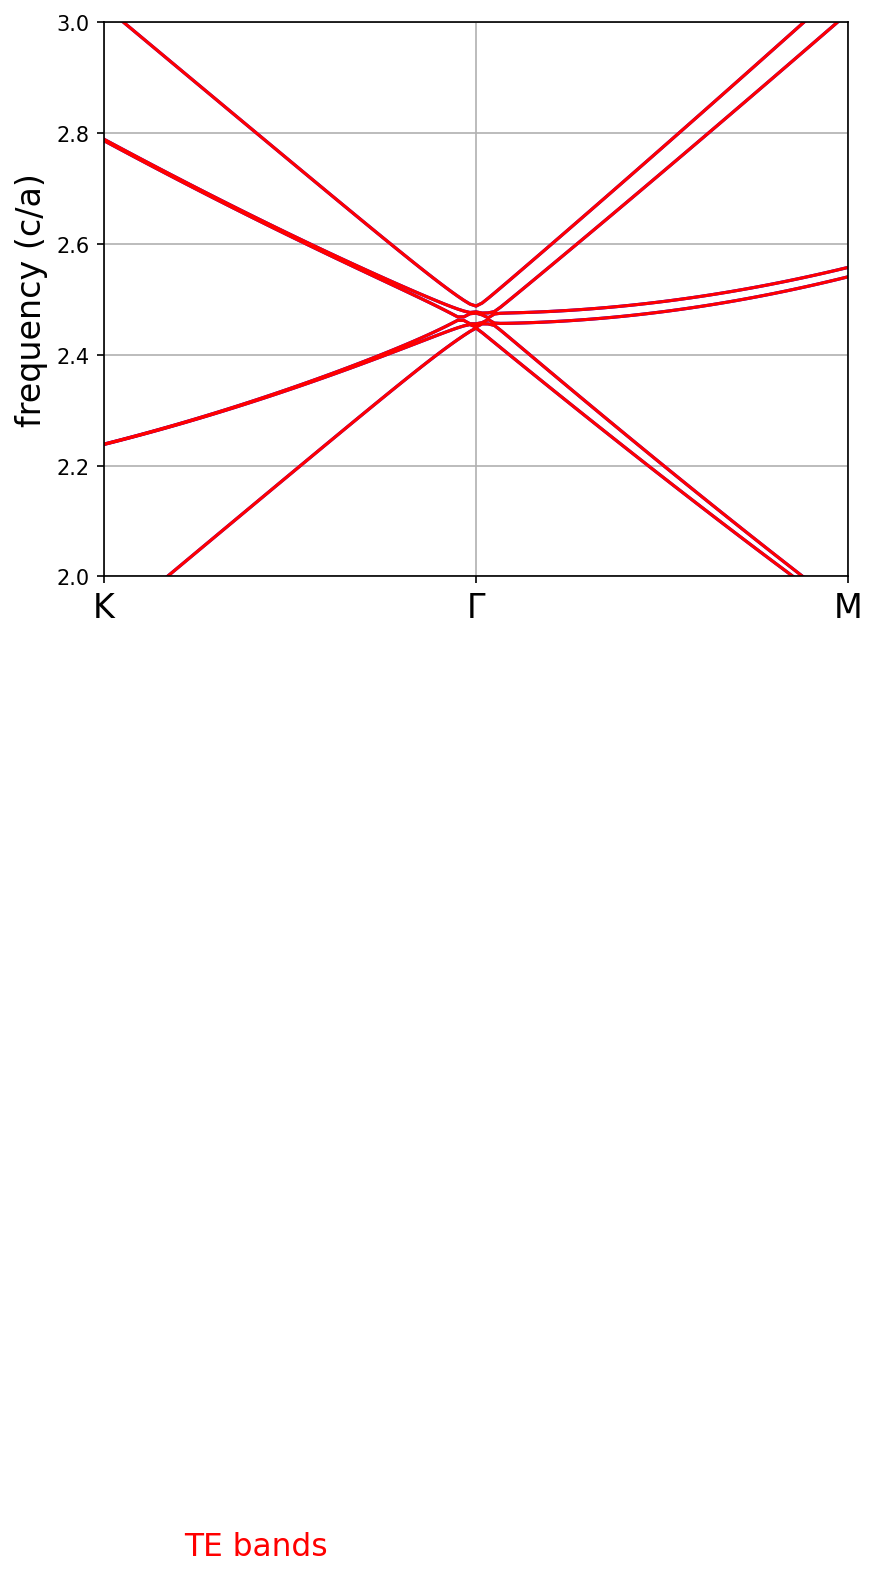
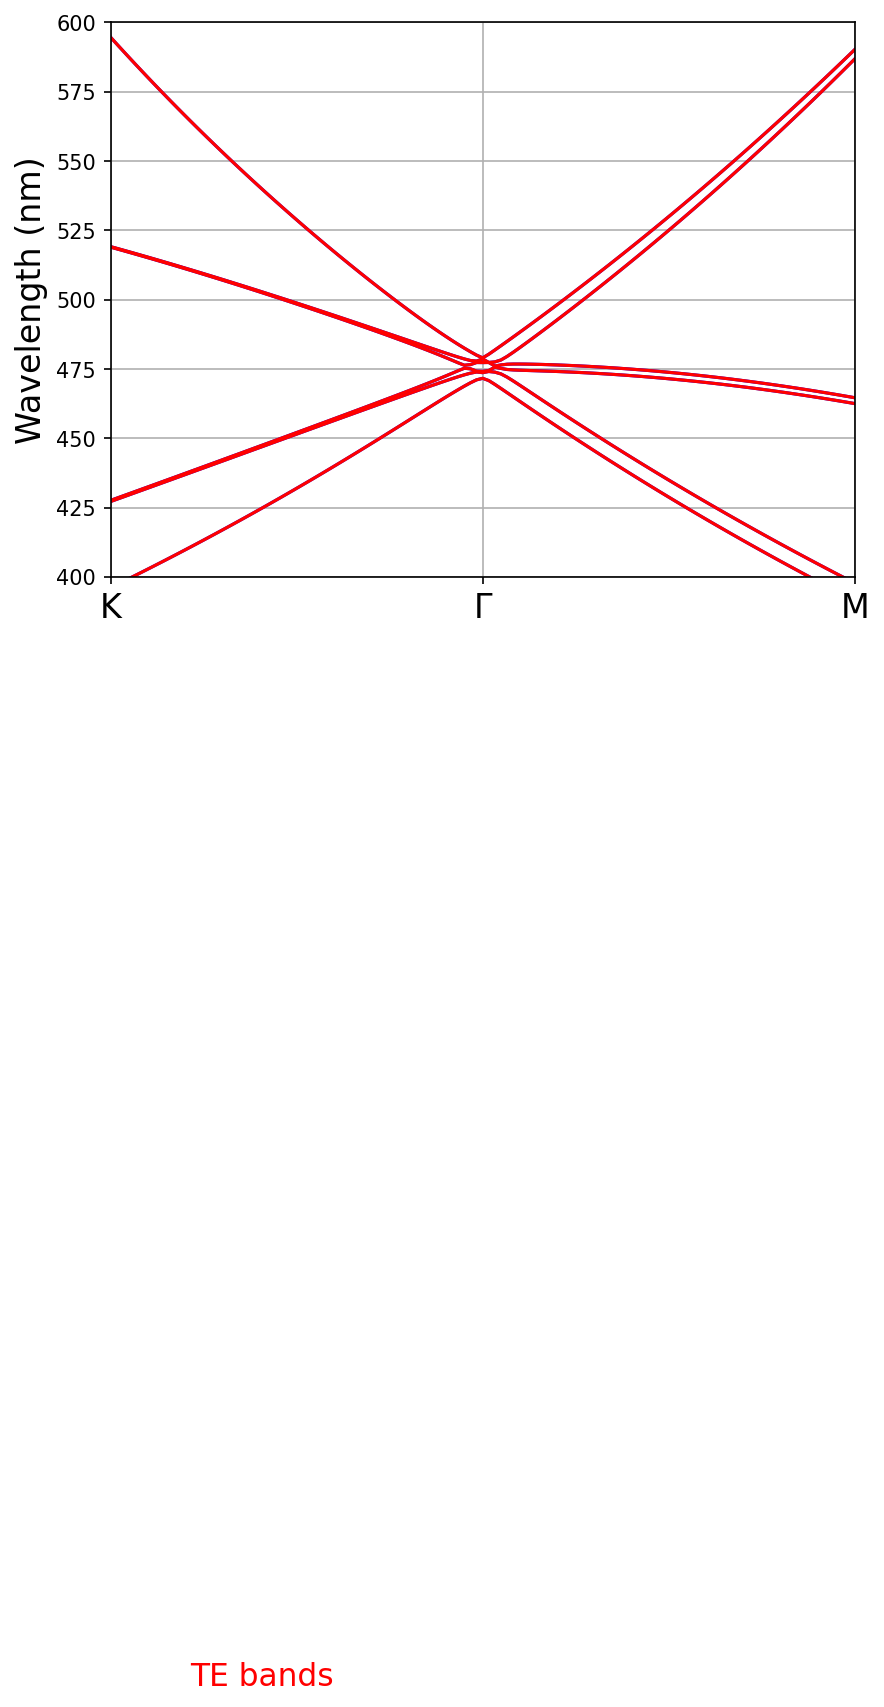
nother day another dolla

diff --git a/plots/bandvisualizer.py b/plots/bandvisualizer.py
@@ -10,17 +10,17 @@ def saveFigure(tm_freqs, te_freqs, tm_gaps, te_gaps):
     #     ax.scatter([xz]*len(tez), tez, color='red', facecolors='none')
     ax.plot(tm_freqs, color='blue')
     ax.plot(te_freqs, color='red')
-    ax.set_ylim([2, 3]) #Height
+    ax.set_ylim([400, 600]) #Height
     ax.set_xlim([x[0], x[-1]])
 
     # Plot gaps
-    for gap in tm_gaps:
-        if gap[0] > 1:
-            ax.fill_between(x, gap[1], gap[2], color='blue', alpha=0.2)
+    # for gap in tm_gaps:
+    #     if gap[0] > 1:
+    #         ax.fill_between(x, gap[1], gap[2], color='blue', alpha=0.2)
 
-    for gap in te_gaps:
-        if gap[0] > 1:
-            ax.fill_between(x, gap[1], gap[2], color='red', alpha=0.2)
+    # for gap in te_gaps:
+    #     if gap[0] > 1:
+    #         ax.fill_between(x, gap[1], gap[2], color='red', alpha=0.2)
 
 
     # Plot labels
@@ -32,7 +32,7 @@ def saveFigure(tm_freqs, te_freqs, tm_gaps, te_gaps):
     tick_labs = ['K', 'Γ', 'M']
     ax.set_xticks(tick_locs)
     ax.set_xticklabels(tick_labs, size=16)
-    ax.set_ylabel('frequency (c/a)', size=16)
+    ax.set_ylabel('Wavelength (nm)', size=16)
     ax.grid(True)
 
     fig.savefig("band_structure.png", dpi=150, bbox_inches="tight")

diff --git a/main.py b/main.py
@@ -14,8 +14,8 @@ import simulation.mpbsolver as hexSolver
 import simulation.tdsolver  as tdSolver
 
 def main():
-    # fdsim()
-    tdsim()
+    fdsim()
+    # tdsim()
     
 def tdsim():
     
@@ -32,12 +32,14 @@ def tdsim():
 
 def fdsim():
     
-    latticeConstant = 0.455 # um
+    latticeConstant = 0.400 # um
     
-    te_freqs, te_gaps = recalc(latticeConstant)
+    # te_freqs, te_gaps = recalc(latticeConstant)
     
-    # te_freqs = np.load("bin\\simresults\\te_freqs.npy")
-    # te_gaps = np.load("bin\\simresults\\te_gaps.npy")
+    te_freqs = np.load("bin\\simresults\\te_freqs.npy")
+    te_gaps = np.load("bin\\simresults\\te_gaps.npy")
+    
+    te_freqs = ((latticeConstant / 3e8) / te_freqs) * 1e12
     
     plots.bandvisualizer.saveFigure(te_freqs, te_freqs, te_gaps, te_gaps)
     
@@ -49,7 +51,7 @@ def fdsim():
     
 def recalc(latticeConstant):
     
-    silMat = pi.getFitted("data/AspnesCrystallineNanometers.csv", 0.4, 0.7, "um")
+    silMat = pi.getFitted("data/AspnesCrystallineNanometers.csv", (0.4, 0.8), "um", 6, 15)
     
     #silMat = mp.Medium(epsilon = 18.7)
     hexSim =  hexSolver.create2DHexSolver(silMat, latticeConstant)

diff --git a/disRel/processInput.py b/disRel/processInput.py
@@ -23,7 +23,7 @@ def getFitted(datasource : str, wl_r : tuple[float, float], wl_units : str, num_
     # this would be epic
     # eps = np.float_power(eps, 1 / imaginary_weight)
 
-    wl_scale = wl_scale * chat.scaleNm(wl_units)
+    wl_scale = chat.scaleNm(wl_units)
     
     # Fit only the data in the wavelength range of [wl_r[0], wl_r[1]].
     wl = wl_scale * mydata[:, 0]
